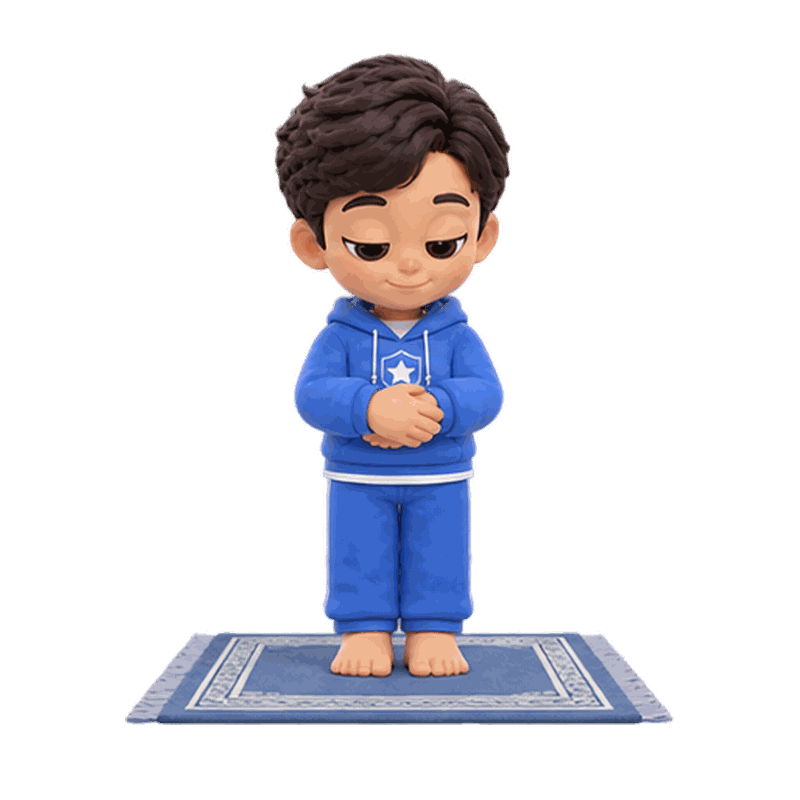
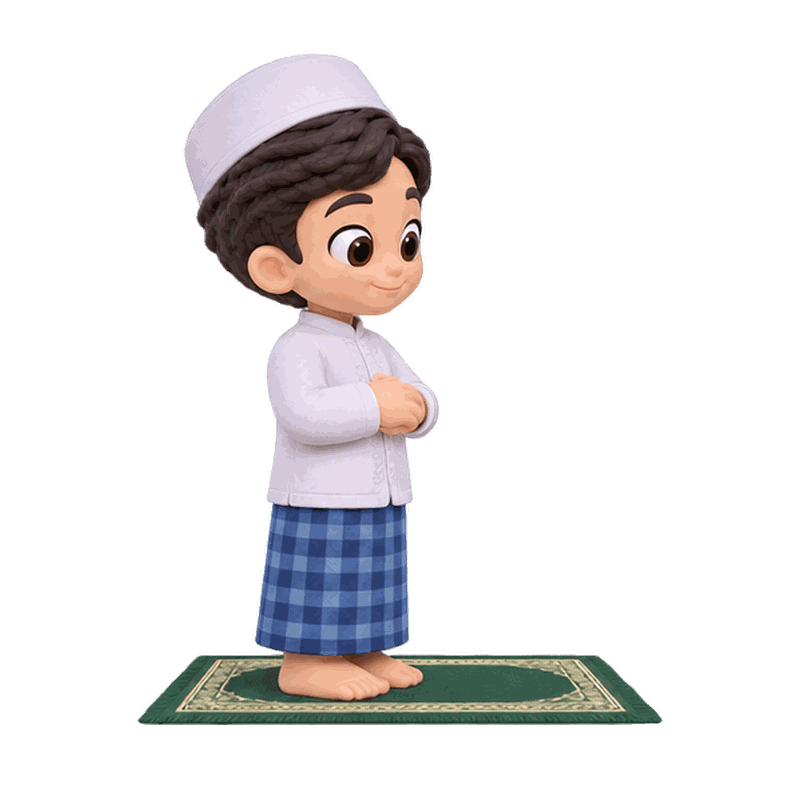
Pose libraries: 39 more (Adam 145, Ayah 96, Ais 116) with model checks
- Adam: daily life (run, tie shoes, drink, stir, carry bags, clap),
  salat in peci and koko (now sholat-*; hoodie set kept as
  sholat-hoodie-*), iqamah, teaching Iqra, du'a, salaman, Qur'an on a
  rehal, dzikir, helping (offer, soup bowl, watering, hug, sedekah,
  umbrella) and three scenes with Baby Mo
- Ayah: carrying Mo, walking with the twins, Ais on his shoulders,
  cooking, fixing, a gentle no
- Ais: sujud, grumpy, crying, running, hiding scared, shrug (fills the
  old gap list)
- new check field marks off-model renders: Baby Mo in all five duo
  scenes (wavy brown hair, overalls) and Adam's rounded-back ruku;
  flagged red on the reference sheets
- haze stripped, overlapping grid slicing, scaled by standing height

Claude-Session: https://claude.ai/code/session_013wiJDRdH28m1FqwwMnvbtM

Changed region(s): [[0.1562, 0.0625, 0.8438, 0.9062]]

diff --git a/lib/cerita/friends-poses.ts b/lib/cerita/friends-poses.ts
@@ -1,8 +1,8 @@
 /**
  * Baby Mo & friends pose library — Adam (older brother) and Ayah (Dad).
  *
- *   public/adam-poses/adam-<name>.png   118 renders (incl. 10 six-frame tennis sequences)
- *   public/ayah-poses/ayah-<name>.png   90 renders (3 of them with Baby Mo in the image)
+ *   public/adam-poses/adam-<name>.png   145 renders (incl. 10 six-frame tennis sequences)
+ *   public/ayah-poses/ayah-<name>.png   96 renders (5 of them with a twin in the image)
  *
  * Every PNG is 800×800, transparent, feet on the same ground line as Baby Mo
  * and Baby Ais (y = 725). Scale is normalised by head size, so a sitting pose
@@ -37,6 +37,8 @@ export interface FriendPose {
   air?: boolean;
   /** Baby Mo is part of the image */
   duo?: boolean;
+  /** model-consistency warning from review: what doesn't match, and what to do */
+  check?: string;
 }
 
 /** Display size relative to Baby Mo / Ais at the same `s`. */
@@ -96,12 +98,12 @@ export const ADAM_POSES: FriendPose[] = [
   { name: "hold-hand-down", category: "care", mood: "kind", use: "Standing, arm reaching down as if holding a toddler's hand. Walking with Mo or Ais." },
   { name: "handshake-offer", category: "greet", mood: "friendly", use: "Right hand held out for a handshake. \"Barakallah\" after a match, meeting someone, salaman." },
   { name: "give-ball", category: "care", mood: "kind", props: ["tennis ball"], use: "Bending forward, offering a tennis ball. Sharing, giving back, \"you can borrow it\"." },
-  { name: "sholat-takbir", category: "worship", mood: "calm", props: ["prayer mat"], use: "Salat: takbiratul ihram, hands beside the ears. Note: hoodie, not peci and koko." },
-  { name: "sholat-qiyam", category: "worship", mood: "calm", props: ["prayer mat"], use: "Salat: standing, hands folded, eyes on the mat." },
-  { name: "sholat-ruku", category: "worship", mood: "calm", props: ["prayer mat"], use: "Salat: ruku. Note: back is rounded and knees bent; a flat back would be more correct. Use small or redo." },
-  { name: "sholat-sujud", category: "worship", mood: "calm", props: ["prayer mat"], use: "Salat: sujud, forehead on the mat. Wide image.", low: true },
-  { name: "sholat-duduk", category: "worship", mood: "calm", props: ["prayer mat"], use: "Salat: sitting tasyahud, index finger raised.", low: true },
-  { name: "sholat-salam", category: "worship", mood: "calm", props: ["prayer mat"], use: "Salat: salam, head turned to the right.", low: true },
+  { name: "sholat-hoodie-takbir", category: "worship", mood: "calm", props: ["prayer mat"], use: "Salat in the hoodie (older set): takbir. Prefer sholat-takbir (peci and koko)." },
+  { name: "sholat-hoodie-qiyam", category: "worship", mood: "calm", props: ["prayer mat"], use: "Salat: standing, hands folded, eyes on the mat." },
+  { name: "sholat-hoodie-ruku", category: "worship", mood: "calm", props: ["prayer mat"], use: "Salat: ruku. Note: back is rounded and knees bent; a flat back would be more correct. Use small or redo." },
+  { name: "sholat-hoodie-sujud", category: "worship", mood: "calm", props: ["prayer mat"], use: "Salat: sujud, forehead on the mat. Wide image.", low: true },
+  { name: "sholat-hoodie-duduk", category: "worship", mood: "calm", props: ["prayer mat"], use: "Salat: sitting tasyahud, index finger raised.", low: true },
+  { name: "sholat-hoodie-salam", category: "worship", mood: "calm", props: ["prayer mat"], use: "Salat: salam, head turned to the right.", low: true },
   { name: "write-card-floor", category: "create", mood: "focused", props: ["card", "crayons"], use: "Lying on his tummy drawing a card. Making a card for Umi or Abi, crossing off a calendar.", low: true },
   { name: "show-drawing", category: "create", mood: "proud", props: ["drawing"], use: "Holding up a crayon drawing, laughing. Showing a gift, \"look what I made!\"" },
   { name: "hold-trophy", category: "celebrate", mood: "joy", props: ["trophy"], use: "Holding up a gold trophy, no racket. Winning, prize giving, sharing a win." },
@@ -163,6 +165,34 @@ export const ADAM_POSES: FriendPose[] = [
   { name: "tennis-run-4", category: "play", mood: "happy", props: ["racket"], use: "Run with racket (4/6): a running cycle in place. Loops; move him across the page. Frame: stride." },
   { name: "tennis-run-5", category: "play", mood: "happy", props: ["racket"], use: "Run with racket (5/6): a running cycle in place. Loops; move him across the page. Frame: push (low)." },
   { name: "tennis-run-6", category: "play", mood: "happy", props: ["racket"], use: "Run with racket (6/6): a running cycle in place. Loops; move him across the page. Frame: pass." },
+  /* ── batch 4 (R5, R6, R12 peci salat, helping, with Mo): see the check field for model warnings ── */
+  { name: "run", category: "play", mood: "happy", use: "Running happily, empty hands. Racing to the door, park jog, chasing the twins." },
+  { name: "tie-shoes", category: "routine", mood: "happy", use: "Kneeling, tying a shoelace. Getting ready to go out.", low: true },
+  { name: "drink-bottle", category: "food", mood: "calm", props: ["water bottle"], use: "Drinking from a blue bottle, hand on hip. After running or tennis." },
+  { name: "stir-bowl", category: "food", mood: "happy", props: ["bowl", "spoon"], use: "Stirring a mixing bowl. Baking with Abi, kitchen help." },
+  { name: "carry-bags", category: "care", mood: "happy", props: ["shopping bags"], use: "Carrying two shopping bags. Helping with groceries." },
+  { name: "clap-cheer", category: "joy", mood: "joy", use: "Clapping, eyes closed laughing. Cheering for the twins, good news." },
+  { name: "sholat-takbir", category: "worship", mood: "calm", props: ["prayer mat"], use: "Salat in peci and koko: takbir, hands beside the ears. Replaces the hoodie version." },
+  { name: "sholat-qiyam", category: "worship", mood: "calm", props: ["prayer mat"], use: "Salat in peci and koko: standing, hands folded." },
+  { name: "sholat-ruku", category: "worship", mood: "calm", props: ["prayer mat"], use: "Salat in peci and koko: ruku.", check: "The back is still rounded with the head dropped; a correct ruku has a flat, level back. Use small or regenerate." },
+  { name: "sholat-sujud", category: "worship", mood: "calm", props: ["prayer mat"], use: "Salat in peci and koko: sujud.", low: true },
+  { name: "sholat-duduk", category: "worship", mood: "calm", props: ["prayer mat"], use: "Salat in peci and koko: sitting tasyahud, finger raised.", low: true },
+  { name: "sholat-salam", category: "worship", mood: "happy", props: ["prayer mat"], use: "Salat in peci and koko: salam to the right.", low: true },
+  { name: "iqamah", category: "worship", mood: "calm", use: "Calling the iqamah, hands cupped by his mouth. Prayer at home, leading the row." },
+  { name: "teach-iqra-sit", category: "learn", mood: "happy", props: ["Iqra book"], use: "Sitting, pointing at a letter in an Iqra book. Teaching Mo hijaiyah letters.", low: true },
+  { name: "dua-sit", category: "worship", mood: "calm", use: "Sitting cross-legged in du'a, eyes closed. After salat, before sleep.", low: true },
+  { name: "salaman", category: "greet", mood: "happy", use: "Both hands out to shake hands after prayer. Salaman with Abi or the twins." },
+  { name: "quran-rehal-kneel", category: "worship", mood: "happy", props: ["Qur'an", "rehal"], use: "Kneeling, reading the Qur'an on a wooden rehal. Tadarus, Ramadan.", low: true },
+  { name: "dzikir-sit", category: "worship", mood: "calm", props: ["tasbih", "prayer mat"], use: "Sitting on a prayer mat counting tasbih, eyes closed. Dzikir after salat.", low: true },
+  { name: "offer", category: "care", mood: "kind", use: "Both palms up, offering. Sharing, \"for you\", inviting." },
+  { name: "carry-bowl", category: "care", mood: "happy", props: ["covered bowl"], use: "Walking carefully with a steaming covered bowl. Bringing soup to a neighbour or Umi." },
+  { name: "watering-can", category: "nature", mood: "happy", props: ["watering can", "plant"], use: "Watering a potted plant. Garden, caring for plants." },
+  { name: "hug-side", category: "care", mood: "loving", use: "Arms wrapping to the side as if hugging someone beside him, eyes closed, little heart. Place a twin in his arms." },
+  { name: "sedekah-coin", category: "care", mood: "kind", props: ["charity box", "coin"], use: "Dropping a coin into a wooden charity box. Sedekah, Friday." },
+  { name: "umbrella", category: "weather", mood: "kind", props: ["umbrella"], use: "Holding a big blue umbrella over someone smaller. Rain, sheltering the twins." },
+  { name: "piggyback-mo", category: "care", mood: "joy", props: ["Baby Mo"], use: "Giving Baby Mo a piggyback, both laughing.", duo: true, check: "Baby Mo here does not match his model (wavy brown hair and brown eyes instead of smooth glossy black hair; overalls instead of the star jumpsuit). Use small or regenerate." },
+  { name: "hug-mo", category: "care", mood: "loving", props: ["Baby Mo"], use: "Kneeling, hugging Baby Mo tight.", low: true, duo: true, check: "Baby Mo here does not match his model (wavy brown hair and brown eyes instead of smooth glossy black hair; overalls instead of the star jumpsuit). Use small or regenerate." },
+  { name: "high-five-mo", category: "celebrate", mood: "joy", props: ["Baby Mo"], use: "Bending to high-five Baby Mo.", duo: true, check: "Baby Mo here does not match his model (wavy brown hair and brown eyes instead of smooth glossy black hair; overalls instead of the star jumpsuit). Use small or regenerate." },
 ];
 
 export const AYAH_POSES: FriendPose[] = [
@@ -256,6 +286,13 @@ export const AYAH_POSES: FriendPose[] = [
   { name: "thumbs-up-stand", category: "joy", mood: "happy", use: "Standing, thumbs up, hand in pocket. Approval." },
   { name: "cheer-fists-stand", category: "celebrate", mood: "joy", use: "Standing, fists up, knee raised, laughing." },
   { name: "think-chin-stand-2", category: "think", mood: "thoughtful", use: "Alt of think-chin-stand.", alt: true },
+  /* ── batch 2 (with the kids, at home) ── */
+  { name: "carry-mo", category: "care", mood: "joy", props: ["Baby Mo"], use: "Carrying Baby Mo on his hip.", duo: true, check: "Baby Mo here does not match his model (wavy brown hair and brown eyes instead of smooth glossy black hair; overalls instead of the star jumpsuit). Use small or regenerate." },
+  { name: "hold-hands-twins", category: "care", mood: "happy", props: ["Baby Mo", "Baby Ais"], use: "Walking, holding Mo and Ais by the hand. Going out, school run, the mosque.", duo: true, check: "Baby Mo here does not match his model (wavy brown hair and brown eyes instead of smooth glossy black hair; overalls instead of the star jumpsuit). Use small or regenerate." },
+  { name: "shoulders-ais", category: "care", mood: "joy", props: ["Baby Ais"], use: "Baby Ais riding on his shoulders, both laughing.", duo: true },
+  { name: "cook-pan", category: "food", mood: "happy", props: ["apron", "frying pan"], use: "Cooking with a pan and spatula, apron on. Breakfast, iftar, helping Umi." },
+  { name: "fix-toolbox", category: "routine", mood: "focused", props: ["toolbox", "screwdriver"], use: "Kneeling, fixing a box with a screwdriver. Repairs, building something together.", low: true },
+  { name: "stern-gentle", category: "learn", mood: "serious", use: "Finger raised, hand on hip, gentle but serious. A kind \"not like that\"." },
 ];
 
 export const FRIEND_POSES: Record<Friend, FriendPose[]> = { adam: ADAM_POSES, ayah: AYAH_POSES };
@@ -263,7 +300,7 @@ export const FRIEND_POSES: Record<Friend, FriendPose[]> = { adam: ADAM_POSES, ay
 /** Quick picks for common story moments (first = best). */
 export const ADAM_FOR: Record<string, string[]> = {
   hello: ["wave-hello"],
-  dua: ["dua-hands"],
+  dua: ["dua-sit", "dua-hands"],
   quran: ["quran-read-sit"],
   sedekah: ["sedekah-box"],
   tennis: ["tennis-hit-forehand", "tennis-ready-wide", "tennis-hold-ball", "tennis-serve-toss"],
@@ -282,6 +319,15 @@ export const ADAM_FOR: Record<string, string[]> = {
   handshake: ["handshake-offer"],
   sorry: ["sorry-hands", "kneel-talk"],
   salat: ["sholat-takbir", "sholat-qiyam", "sholat-sujud", "sholat-duduk", "sholat-salam"],
+  iqamah: ["iqamah"],
+  teachIqra: ["teach-iqra-sit"],
+  dzikir: ["dzikir-sit"],
+  salaman: ["salaman", "handshake-offer"],
+  run: ["run"],
+  kitchen: ["stir-bowl", "carry-bowl"],
+  helping: ["carry-bags", "carry-bowl", "watering-can", "offer"],
+  rain: ["umbrella"],
+  withMo: ["hug-mo", "high-five-mo", "piggyback-mo"],
   draw: ["write-card-floor", "show-drawing"],
   trophy: ["hold-trophy"],
   call: ["video-call-tablet"],
@@ -309,7 +355,11 @@ export const AYAH_FOR: Record<string, string[]> = {
   leaving: ["backpack-walk", "backpack-wave-walk", "wave-folder", "traveller-suitcase"],
   proud: ["thumbs-up-stand", "stand-arms-crossed", "thumbs-up-kneel", "cheer-fists-sit"],
   celebrate: ["cheer-fists-stand", "cheer-knee-up", "arms-up-joy-sit", "cheer-kneel"],
-  withMo: ["hug-mo", "read-with-mo", "high-five-mo"],
+  withMo: ["hug-mo", "read-with-mo", "high-five-mo", "carry-mo"],
+  withTwins: ["hold-hands-twins", "shoulders-ais"],
+  cook: ["cook-pan"],
+  fix: ["fix-toolbox"],
+  gentleNo: ["stern-gentle", "stop-hand"],
   teach: ["teach-point-kneel", "teach-book-sit", "idea-book-stand", "kneel-present"],
   idea: ["idea-bulb-sit", "idea-point-stand"],
   think: ["think-chin-stand", "listen-sit-box"],
@@ -340,13 +390,12 @@ export const AYAH_FOR: Record<string, string[]> = {
 /** Moments with no render yet — brief new art or work around them. */
 export const FRIEND_GAPS = [
   "Ayah: salat standing, ruku and sitting (only sujud and du'a exist)",
-  "Ayah: carrying or holding a twin, holding hands walking",
   "Ayah: angry or crying",
-  "Ayah: cooking, driving, fixing things",
-  "Adam: iqamah, teaching Iqra, du'a and dzikir sitting (brief batch R5)",
-  "Adam: running without a racket, tying shoes, drinking, kitchen, carrying bags (brief batch R6)",
+  "Ayah: driving",
   "Adam with the twins: piggyback, hug, high-five, holding hands, reading (brief batch R8)",
-  "Adam: salat in peci and koko (R4 came back in the hoodie), and a flat-backed ruku",
+  "Adam: a flat-backed ruku in peci and koko (both salat sheets came back with a rounded back)",
+  "Adam / Abi with Baby Mo: regenerate with Mo on model (smooth glossy black hair, star jumpsuit)",
+  "Adam with both twins: hold-hands, reading, helping Ais up (brief batch R8b)",
 ];
 
 export const friendPoseSrc = (who: Friend, name: string) => `/${who}-poses/${who}-${name}.png`;

diff --git a/lib/cerita/ais-poses.ts b/lib/cerita/ais-poses.ts
@@ -65,6 +65,8 @@ export interface AisPose {
   use: string;
   /** sitting / kneeling / lying (needs less height in the scene) */
   low?: boolean;
+  /** model-consistency warning from review */
+  check?: string;
 }
 
 export const AIS_POSES: AisPose[] = [
@@ -178,6 +180,13 @@ export const AIS_POSES: AisPose[] = [
   { name: "lie-chin-hands", category: "calm", mood: "dreamy", props: [], use: "Lying on tummy, chin in hands. Daydreaming, listening, lazy afternoon. Wide pose.", low: true },
   { name: "dua-hands-closed", category: "worship", mood: "peaceful", props: [], use: "Kneeling, palms together, eyes closed. Du'a, gratitude, saying sorry (alt to 029).", low: true },
   { name: "hug-bunny-happy", category: "care", mood: "happy", props: ["bunny plush"], use: "Sitting, hugging bunny, eyes closed smile. Toy found, comfort, bedtime.", low: true },
+  /* ── gap batch (sujud, grumpy, crying, running, scared, shrug) ── */
+  { name: "sujud", category: "worship", mood: "calm", props: ["prayer mat"], use: "Sujud on a prayer mat. Fills the Ais sujud gap.", low: true },
+  { name: "grumpy", category: "feel", mood: "grumpy", props: [], use: "Arms crossed, frowning, little grey cloud. Grumpy, cross, sulking." },
+  { name: "cry-sit", category: "feel", mood: "sad", props: [], use: "Sitting on the floor crying, rubbing her eyes. A fall, a big upset.", low: true },
+  { name: "run", category: "play", mood: "happy", props: [], use: "Running fast and happy." },
+  { name: "scared-hide", category: "feel", mood: "scared", props: [], use: "Crouching, hiding her face behind her hands, peeking. Scared, shy, thunder.", low: true },
+  { name: "shrug", category: "think", mood: "puzzled", props: [], use: "Palms up, puzzled, question mark. \"I don't know\"." },
 ];
 
 /** Quick picks for common story moments (first = best). */
@@ -190,12 +199,17 @@ export const AIS_FOR: Record<string, string[]> = {
   idea: ["idea-bulb", "idea-point"],
   surprised: ["surprised", "dreamy-delight"],
   awe: ["dreamy-delight", "point-star", "point-moon", "telescope"],
-  sad: ["sad-tears", "hug-bunny-sit", "hug-star-sit"],
+  sad: ["sad-tears", "cry-sit", "hug-bunny-sit", "hug-star-sit"],
+  grumpy: ["grumpy"],
+  scared: ["scared-hide", "peek-wall"],
+  dontKnow: ["shrug"],
+  run: ["run"],
+  sujud: ["sujud"],
   sick: ["sick-blanket"],
   shy: ["peek-wall"],
   calm: ["calm-sit", "sit-chin-hands", "headphones-kneel"],
   listening: ["sit-chin-hands", "read-cushion", "lie-chin-hands"],
-  dua: ["dua-mat", "dua-kneel", "dua-hands-closed"],
+  dua: ["dua-mat", "dua-kneel", "dua-hands-closed", "sujud"],
   thankful: ["dua-hands-closed", "heart-hands", "heart-hands-smile"],
   sorry: ["dua-hands-closed", "hug-heart"],
   quran: ["quran-rehal", "read-quran-sit"],
@@ -225,12 +239,6 @@ export const AIS_FOR: Record<string, string[]> = {
 
 /** Moments with no Ais render yet — use Baby Mo, change the scene, or brief new art. */
 export const AIS_GAPS = [
-  "sujud (prostration) — use Baby Mo pose-17 or show Ais on the mat with dua-mat",
-  "angry / grumpy / tantrum",
-  "crying hard or lying down upset",
-  "running fast (only walking poses)",
-  "scared / hiding face",
-  "shrug / 'I don't know'",
   "pointing sideways at something on the ground (only pointing up)",
   "sitting at a table eating with family",
 ];

diff --git a/docs/friends-pose-library.md b/docs/friends-pose-library.md
@@ -1,11 +1,11 @@
 # Baby Mo & friends — pose library (Adam and Ayah)
 
-There are 208 transparent renders. Use them in StoryArt scenes next to Baby Mo and Baby Ais.
+There are 241 transparent renders. Use them in StoryArt scenes next to Baby Mo and Baby Ais.
 
 | Character | Poses | Files | Reference sheet |
 | --- | --- | --- | --- |
-| Adam (older brother, about 7) | 118 | `public/adam-poses/adam-<name>.png` | [adam-pose-library.jpg](adam-pose-library.jpg) |
-| Ayah (Dad) | 90 | `public/ayah-poses/ayah-<name>.png` | [ayah-pose-library.jpg](ayah-pose-library.jpg) |
+| Adam (older brother, about 7) | 145 | `public/adam-poses/adam-<name>.png` | [adam-pose-library.jpg](adam-pose-library.jpg) |
+| Ayah (Dad) | 96 | `public/ayah-poses/ayah-<name>.png` | [ayah-pose-library.jpg](ayah-pose-library.jpg) |
 
 The code lives in `lib/cerita/friends-poses.ts`. It holds `ADAM_POSES`, `AYAH_POSES`, the quick picks `ADAM_FOR` and `AYAH_FOR`, and `FRIEND_GAPS`.
 
@@ -37,7 +37,7 @@ scene: {
 - **Small losses:** the "zzz" on `ayah-sleep-blanket` was dropped as a stray speck.
 - **Wrong outfit:** the tennis sheets show Adam in his blue hoodie, not the tennis outfit from the brief.
 
-## Adam — 118 poses
+## Adam — 145 poses
 
 ![Adam pose library](adam-pose-library.jpg)
 
@@ -140,6 +140,46 @@ These are from the Adam Pose Revision Brief, batches R1–R4, R7 and R9–R11.
 | `tennis-walk-racket` | travel | Walking happily with the racket on his shoulder. Going to or from the court. |
 | `tennis-sad-miss` | feel | Racket dragging, head down. After a miss or a lost point. |
 
+### Batch 4 (November 2026): 27 more
+
+These come from briefs R5 (iqamah and Iqra), R6 (daily life), R12 (salat in peci and koko), the "helping" batch and R8a (with Mo).
+
+- **⚠ Model check:** five renders are flagged with a `check` field in `friends-poses.ts` and marked red on the reference sheet.
+  - **Baby Mo is off-model** in every scene he appears in (`adam-piggyback-mo`, `adam-hug-mo`, `adam-high-five-mo`, `ayah-carry-mo`, `ayah-hold-hands-twins`). He has wavy brown hair, brown eyes and overalls, instead of smooth glossy black hair and his star jumpsuit. Use these small, or regenerate them with a Mo reference attached.
+  - **`sholat-ruku`** still has a rounded back.
+- **Salat:** the peci-and-koko set now takes the names `sholat-takbir`…`sholat-salam`. The earlier hoodie set is kept as `sholat-hoodie-*`.
+- **Ais is on-model** in `ayah-hold-hands-twins` and `ayah-shoulders-ais`.
+
+| Pose | Type | Notes |
+| --- | --- | --- |
+| `run` | play | Running happily, empty hands. Racing to the door, park jog, chasing the twins. |
+| `tie-shoes` | routine · low | Kneeling, tying a shoelace. Getting ready to go out. |
+| `drink-bottle` | food | Drinking from a blue bottle, hand on hip. After running or tennis. |
+| `stir-bowl` | food | Stirring a mixing bowl. Baking with Abi, kitchen help. |
+| `carry-bags` | care | Carrying two shopping bags. Helping with groceries. |
+| `clap-cheer` | joy | Clapping, eyes closed laughing. Cheering for the twins, good news. |
+| `sholat-takbir` | worship | Salat in peci and koko: takbir, hands beside the ears. Replaces the hoodie version. |
+| `sholat-qiyam` | worship | Salat in peci and koko: standing, hands folded. |
+| `sholat-ruku` | worship | Salat in peci and koko: ruku. **⚠ The back is still rounded with the head dropped; a correct ruku has a flat, level back. Use small or regenerate.** |
+| `sholat-sujud` | worship · low | Salat in peci and koko: sujud. |
+| `sholat-duduk` | worship · low | Salat in peci and koko: sitting tasyahud, finger raised. |
+| `sholat-salam` | worship · low | Salat in peci and koko: salam to the right. |
+| `iqamah` | worship | Calling the iqamah, hands cupped by his mouth. Prayer at home, leading the row. |
+| `teach-iqra-sit` | learn · low | Sitting, pointing at a letter in an Iqra book. Teaching Mo hijaiyah letters. |
+| `dua-sit` | worship · low | Sitting cross-legged in du'a, eyes closed. After salat, before sleep. |
+| `salaman` | greet | Both hands out to shake hands after prayer. Salaman with Abi or the twins. |
+| `quran-rehal-kneel` | worship · low | Kneeling, reading the Qur'an on a wooden rehal. Tadarus, Ramadan. |
+| `dzikir-sit` | worship · low | Sitting on a prayer mat counting tasbih, eyes closed. Dzikir after salat. |
+| `offer` | care | Both palms up, offering. Sharing, "for you", inviting. |
+| `carry-bowl` | care | Walking carefully with a steaming covered bowl. Bringing soup to a neighbour or Umi. |
+| `watering-can` | nature | Watering a potted plant. Garden, caring for plants. |
+| `hug-side` | care | Arms wrapping to the side as if hugging someone beside him, eyes closed, little heart. Place a twin in his arms. |
+| `sedekah-coin` | care | Dropping a coin into a wooden charity box. Sedekah, Friday. |
+| `umbrella` | weather | Holding a big blue umbrella over someone smaller. Rain, sheltering the twins. |
+| `piggyback-mo` | care · duo | Giving Baby Mo a piggyback, both laughing. **⚠ Baby Mo here does not match his model (wavy brown hair and brown eyes instead of smooth glossy black hair; overalls instead of the star jumpsuit). Use small or regenerate.** |
+| `hug-mo` | care · low, duo | Kneeling, hugging Baby Mo tight. **⚠ Baby Mo here does not match his model (wavy brown hair and brown eyes instead of smooth glossy black hair; overalls instead of the star jumpsuit). Use small or regenerate.** |
+| `high-five-mo` | celebrate · duo | Bending to high-five Baby Mo. **⚠ Baby Mo here does not match his model (wavy brown hair and brown eyes instead of smooth glossy black hair; overalls instead of the star jumpsuit). Use small or regenerate.** |
+
 ### Tennis animation sets: 36 frames
 
 There are six six-frame sequences from the tennis animation brief. They play with `seq`, for example `{ who: "adam", pose: "tennis-run-1", seq: ADAM_FOR.runFrames, fps: 8, x }`.
@@ -159,7 +199,7 @@ There are six six-frame sequences from the tennis animation brief. They play wit
 
 The three tennis sets (`tennis-forehand-1…6`, `tennis-backhand-1…6`, `tennis-swing-1…6`) are six-frame swings. Use frame 4 or 5 as a single book image, or play them in order as an animation.
 
-## Ayah — 90 poses
+## Ayah — 96 poses
 
 ![Ayah pose library](ayah-pose-library.jpg)
 
@@ -255,6 +295,17 @@ The three tennis sets (`tennis-forehand-1…6`, `tennis-backhand-1…6`, `tennis
 | `thumbs-up-stand` | joy | Standing, thumbs up, hand in pocket. Approval. |
 | `cheer-fists-stand` | celebrate | Standing, fists up, knee raised, laughing. |
 | `think-chin-stand-2` | think · alt | Alt of think-chin-stand. |
+
+### Ayah batch 2: 6 more
+
+| Pose | Type | Notes |
+| --- | --- | --- |
+| `carry-mo` | care · duo | Carrying Baby Mo on his hip. **⚠ Baby Mo here does not match his model (wavy brown hair and brown eyes instead of smooth glossy black hair; overalls instead of the star jumpsuit). Use small or regenerate.** |
+| `hold-hands-twins` | care · duo | Walking, holding Mo and Ais by the hand. Going out, school run, the mosque. **⚠ Baby Mo here does not match his model (wavy brown hair and brown eyes instead of smooth glossy black hair; overalls instead of the star jumpsuit). Use small or regenerate.** |
+| `shoulders-ais` | care · duo | Baby Ais riding on his shoulders, both laughing. |
+| `cook-pan` | food | Cooking with a pan and spatula, apron on. Breakfast, iftar, helping Umi. |
+| `fix-toolbox` | routine · low | Kneeling, fixing a box with a screwdriver. Repairs, building something together. |
+| `stern-gentle` | learn | Finger raised, hand on hip, gentle but serious. A kind "not like that". |
 
 ## Still missing
 

diff --git a/docs/baby-ais-pose-library.md b/docs/baby-ais-pose-library.md
@@ -318,3 +318,17 @@ Notes say what she is doing and which story moments the pose fits. *alt* = near-
 | 063 | `megaphone` | loud | megaphone | Shouting into a megaphone. Announcements, calling everyone, 'Ayo!' |
 | 098 | `chef-bowl` | happy | chef hat, apron, whisk, bowl | Chef holding whisk and bowl (alt to 017). |
 | 099 | `doctor-clipboard` | helpful | lab coat, stethoscope, clipboard | Doctor with clipboard, pointing up. Explaining, health tips. |
+
+
+## Gap batch (November 2026): 6 more
+
+These fill the old gaps for sujud, grumpy, crying hard, running, scared and "I don't know". All six are on-model.
+
+| Pose | Type | Notes |
+| --- | --- | --- |
+| `sujud` | worship · low | Sujud on a prayer mat. Fills the Ais sujud gap. |
+| `grumpy` | feel | Arms crossed, frowning, little grey cloud. Grumpy, cross, sulking. |
+| `cry-sit` | feel · low | Sitting on the floor crying, rubbing her eyes. A fall, a big upset. |
+| `run` | play | Running fast and happy. |
+| `scared-hide` | feel · low | Crouching, hiding her face behind her hands, peeking. Scared, shy, thunder. |
+| `shrug` | think | Palms up, puzzled, question mark. "I don't know". |
